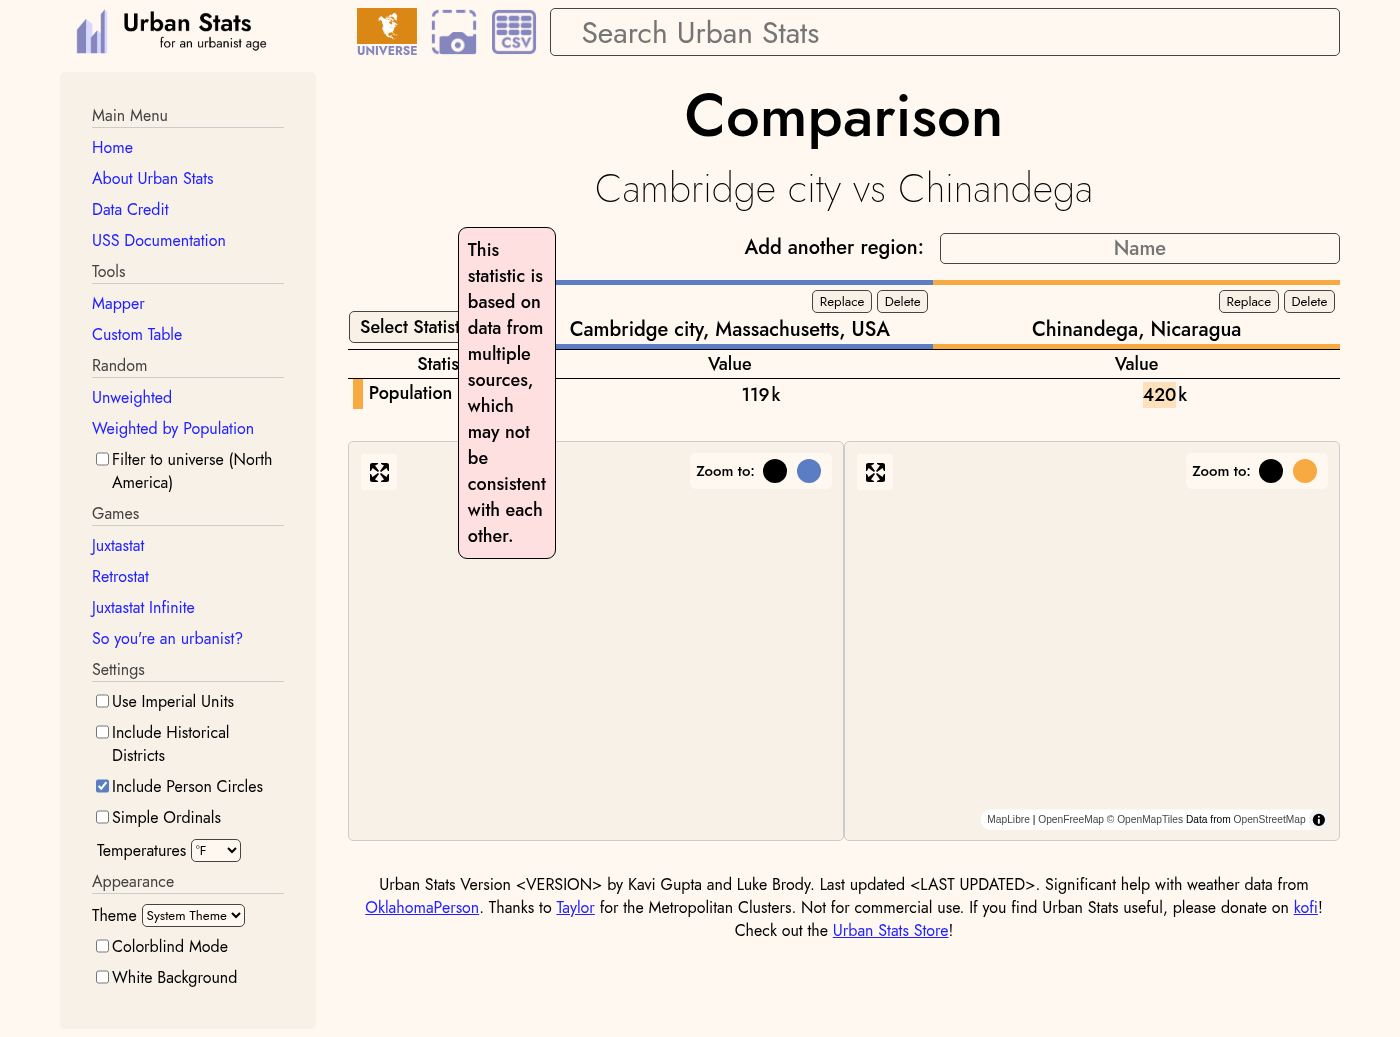
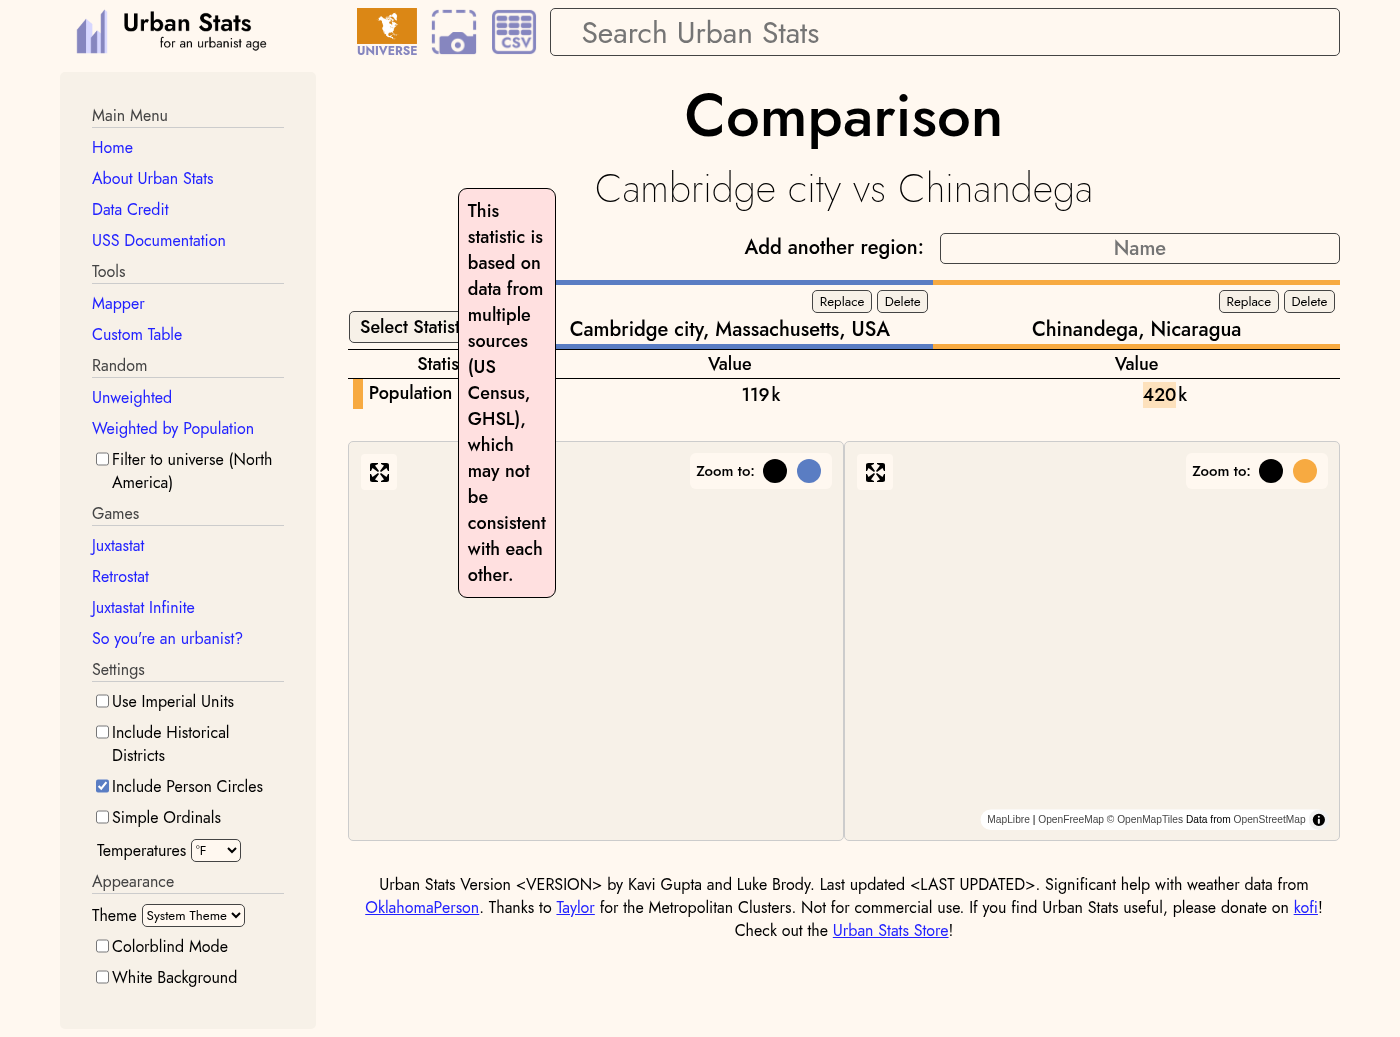
Name a collapsed statistic row after none of its sources
A comparison that merges rows from different sources into one labeled it
with whichever source's statpath happened to be picked, so comparing
Greater Vancouver with California showed "Population [Canadian Census]"
over a column of US Census figures.

The merged row is now unlabeled, and the sources it actually drew values
from are listed in the "!" popup and the screenshot footnote instead.
Sibling rows in the same group still get their own labels: the collapsed
row contributes all of its sources to the group's source tally, so a
separate GHSL row in the same group stays distinguishable from it.

Closes #1858

Changed region(s): [[0.3379, 0.1851, 0.3993, 0.5863]]

diff --git a/react/src/components/disclaimer-text.ts b/react/src/components/disclaimer-text.ts
@@ -1,4 +1,7 @@
-export type Disclaimer = 'heterogenous-sources' | 'election-small-region' | 'election-swing-small-region'
+export type Disclaimer =
+    | { kind: 'heterogenous-sources', sources: string[] }
+    | { kind: 'election-small-region' }
+    | { kind: 'election-swing-small-region' }
 
 /**
  * Returns election disclaimer when appropriate: election-small-region for Presidential Election-margin when population < 5000,
@@ -9,18 +12,18 @@ export function electionDisclaimerForRow(statpath: string | undefined, populatio
         return undefined
     }
     if (statpath.includes('Presidential Election-margin') && population < 5000) {
-        return 'election-small-region'
+        return { kind: 'election-small-region' }
     }
     if (statpath.includes('Swing-margin') && population < 10000) {
-        return 'election-swing-small-region'
+        return { kind: 'election-swing-small-region' }
     }
     return undefined
 }
 
 export function computeDisclaimerText(disclaimer: Disclaimer): string {
-    switch (disclaimer) {
+    switch (disclaimer.kind) {
         case 'heterogenous-sources':
-            return 'This statistic is based on data from multiple sources, which may not be consistent with each other.'
+            return `This statistic is based on data from multiple sources (${disclaimer.sources.join(', ')}), which may not be consistent with each other.`
         case 'election-small-region':
             return 'Election results based on disaggregation from precincts, might have inaccuracies for small regions'
         case 'election-swing-small-region':

diff --git a/react/src/components/statistic-name-specs.ts b/react/src/components/statistic-name-specs.ts
@@ -27,7 +27,12 @@ function aggregateByGroup(nameSpecs: NameSpec[]): Map<string | undefined, GroupA
             aggregates.set(statParent?.group.id, aggregate)
         }
         aggregate.size++
-        if (statParent !== undefined) {
+        if (spec.row.disclaimer?.kind === 'heterogenous-sources') {
+            for (const source of spec.row.disclaimer.sources) {
+                aggregate.sourceNames.add(source)
+            }
+        }
+        else if (statParent !== undefined) {
             aggregate.sourceNames.add(statParent.source.name)
         }
     }
@@ -43,7 +48,8 @@ function getGroupAndDisplayNames(nameSpec: NameSpec, aggregates: Map<string | un
     const groupSize = aggregate.size
     const groupHasMultipleSources = aggregate.sourceNames.size > 1
 
-    const sourceName = statParent?.source.name
+    // A collapsed row's values come from several sources, so no single one can label it.
+    const sourceName = nameSpec.row.disclaimer?.kind === 'heterogenous-sources' ? undefined : statParent?.source.name
     let displayName = groupSize > 1 ? (statParent?.indentedName ?? nameSpec.renderedStatname) : nameSpec.renderedStatname
     if (groupHasMultipleSources && sourceName) {
         displayName = [...joinHumanReadableNames([displayName]), { type: 'atom', value: ` [${sourceName}]` }]

diff --git a/react/src/components/load-article.ts b/react/src/components/load-article.ts
@@ -585,6 +585,10 @@ function collapse(rows: ArticleRow[][], groupYearName: string): ArticleRow[] {
     if (rows.length === 1) {
         return rows[0]
     }
+    const sources = Array.from(new Set(
+        rows.filter(rowsForStat => rowsForStat.some(row => !isNoValue(row.statval)))
+            .map(rowsForStat => statParents.get(rowsForStat[0].statpath)!.source.name),
+    ))
     const rowsByArticle = rows[0].map((_, i) => rows.map(row => row[i]))
     return rowsByArticle.map((rowsForArticle) => {
         const rowsWithValues = rowsForArticle.filter(row => !isNoValue(row.statval))
@@ -597,7 +601,7 @@ function collapse(rows: ArticleRow[][], groupYearName: string): ArticleRow[] {
             // If we can't find any rows with values, just use the first one
             ...rowToUse,
             renderedStatname: groupYearName,
-            disclaimer: 'heterogenous-sources',
+            disclaimer: { kind: 'heterogenous-sources', sources },
         }
     })
 }

diff --git a/react/test/disclaimers.test.ts b/react/test/disclaimers.test.ts
@@ -13,9 +13,10 @@ urbanstatsFixture(
 test('heterogenous-sources disclaimer shows when comparing different sources', async (t) => {
     await t.resizeWindow(1400, 800)
     await t.expect(Selector('.disclaimer-toggle').count).eql(1, 'one disclaimer when sources differ')
+    await t.expect(Selector('[data-test-id=statistic-link]').withExactText('Population').exists).ok('no single source can label the collapsed row')
     await t.click(Selector('.disclaimer-toggle').nth(0))
     await t.expect(
-        Selector('div').withExactText('This statistic is based on data from multiple sources, which may not be consistent with each other.').visible,
+        Selector('div').withExactText('This statistic is based on data from multiple sources (US Census, GHSL), which may not be consistent with each other.').visible,
     ).ok('heterogenous-sources disclaimer text visible after click')
     await screencap(t)
 })

diff --git a/react/src/components/comparison-panel.tsx b/react/src/components/comparison-panel.tsx
@@ -112,7 +112,7 @@ function byStatArticle(dataByArticleStat: ArticleRow[][]): ArticleRow[][] {
 
 /** A statistic has an ordinal only if every region reports it from the same source. */
 function validOrdinals(dataByStatArticle: ArticleRow[][]): boolean[] {
-    return dataByStatArticle.map(statData => statData.every(value => value.kind !== 'metadata' && value.disclaimer !== 'heterogenous-sources'))
+    return dataByStatArticle.map(statData => statData.every(value => value.kind !== 'metadata' && value.disclaimer?.kind !== 'heterogenous-sources'))
 }
 
 /** Ordinals are also only meaningful between regions of the same type. */
